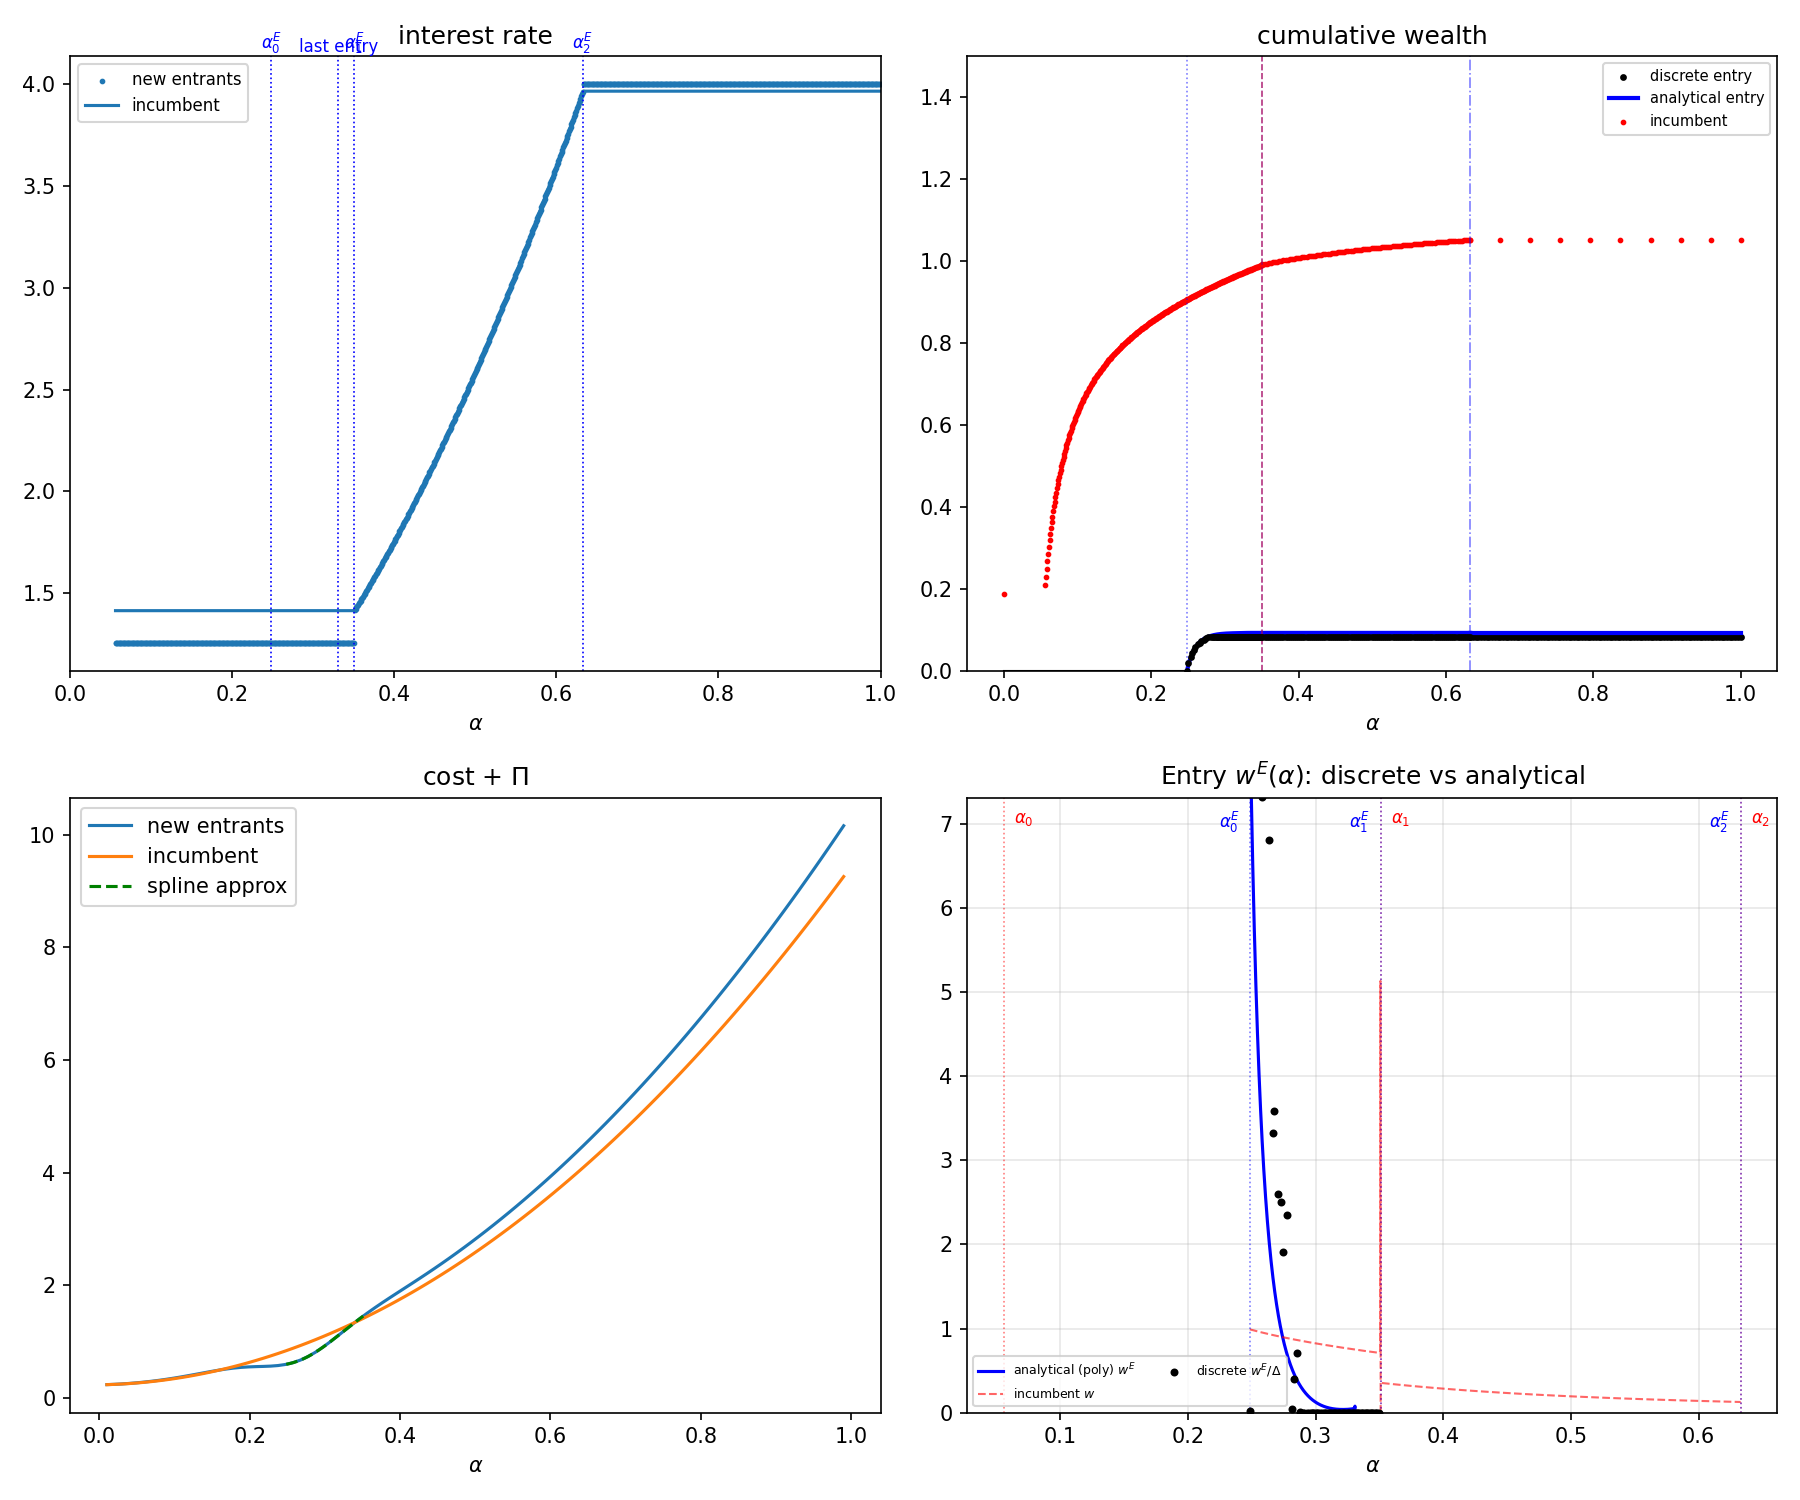
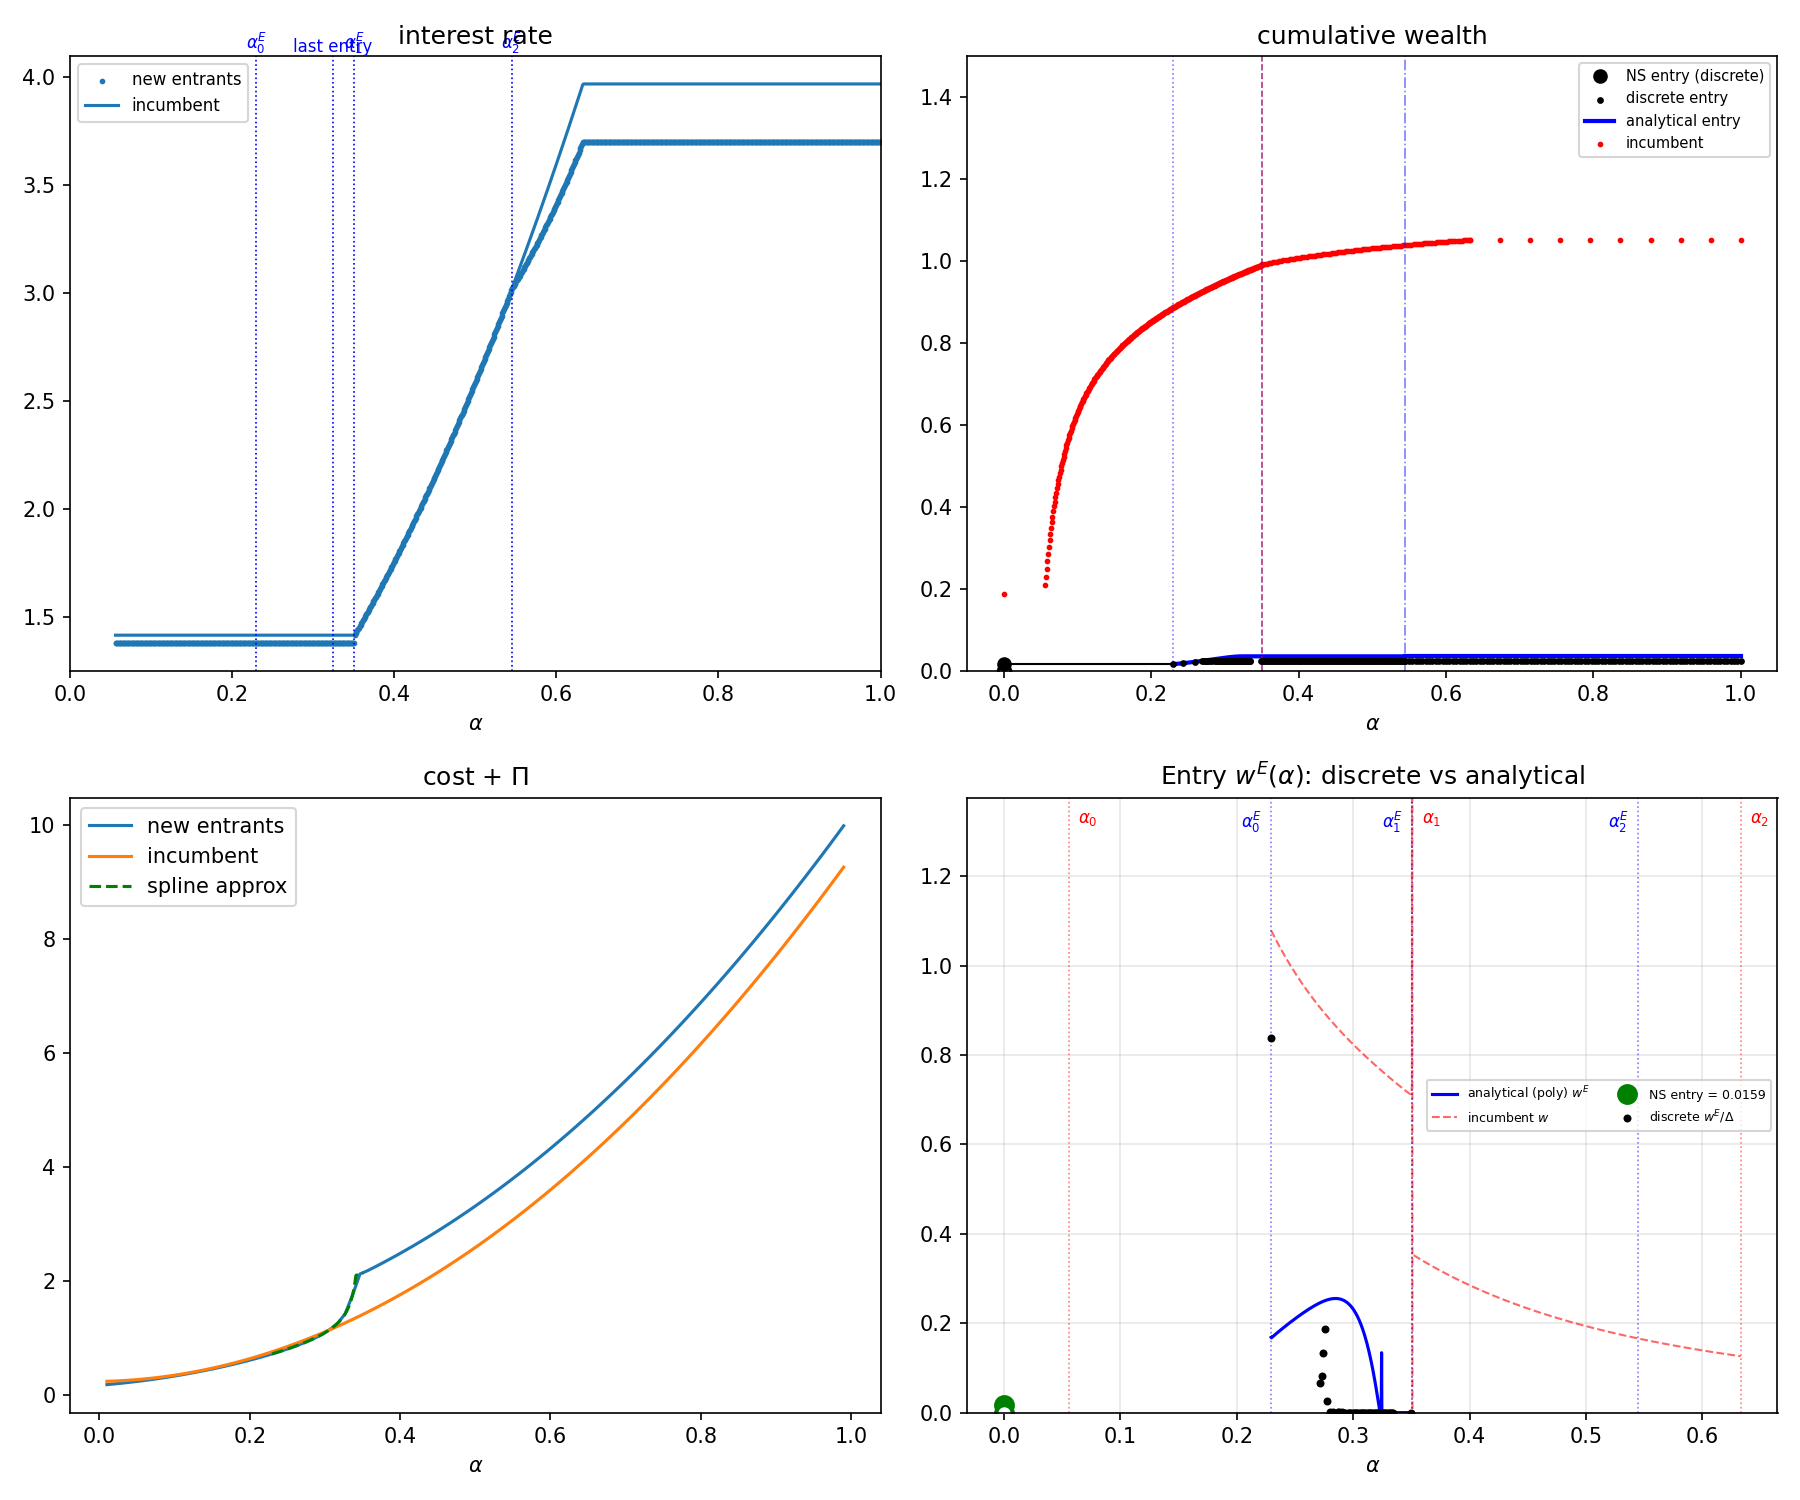
Add cost_lift_with_addon; switch FIG9_OB_limited to it (SP-free)
Replaces the selection_preserving + legacy_addons specification for fig9a
with an explicit, SP-free construction:

  For alpha <= spike:  C^E(alpha) = C(alpha) + c_lift*alpha*(alpha_bar-alpha)
                                            + hyperbolic_addon(alpha)
  For alpha >  spike:  C^E(alpha) = C(alpha) + 0.1*addon_cap
                                            + c_lift*spike*(alpha_bar-spike)
                                              (constant for continuity)

c_lift=4 mirrors the legacy kappa1=-4 distortion magnitude.  K^E(0) = Pi^E
holds by construction since C(0)=lift(0)=addon(0)=0.

Equilibrium matches the previous SP+addons setup to within 1%:
  - alpha0E:  0.227 -> 0.230
  - alpha2E:  0.546 -> 0.545
  - IIb:      0.087 -> 0.088
  - r_NS drop: 0.261 -> 0.268
  - monotonicity margin: +0.0011 (preserved)

Benefits over the SP form: no gamma-dependence, no PCHIP smoothing of a
noisy base, much smaller code path.

diff --git a/mainE_python.py b/mainE_python.py
@@ -90,31 +90,26 @@ PARAM_CONFIGS = {
     },
     'FIG9_OB_limited': {
         'description': 'Figure 9a / fig:OB left - Open Banking, limited adoption (cost advantage at low alpha).',
-        # Legacy SP + add-ons cost form (selection_preserving + legacy_addons).
-        # K^E = γ(α)·(1 + D⁻¹((1/κ)·D((Π+1+C)/γ - 1))) - 1 - Π^E
-        #         + κ₁·α·(α-α̅)                                  (distortion)
-        #         + hyperbolic left addon (capped at 0.1·addon_cap, kink at α=α₁)
-        #         + parallel right piece (K^E rises in lockstep with K_inc for α>α₁)
-        #
-        # Pi/Pi^E chosen so that Pi^E = K^E(0) (i.e. zero entrant rents at α=0
-        # in the limit of the marginal lender breaking even).  K^E(0) for the SP
-        # form depends only on Pi and γ(0), not on Pi^E, so this is a one-shot
-        # set rather than a fixed point.  Pi=0.235 lifts the rate scale up by
-        # ~16% but preserves α₀, α₁, α₀^E and Region IIb width (0.086) almost
-        # exactly; r_NS drop shrinks from 0.36 to 0.26 (still clearly positive
-        # spillover).
+        # cost_lift_with_addon: explicit, SP-free construction of K^E.
+        #   For α ≤ spike:  C^E(α) = C(α) + c_lift·α·(α̅−α) + hyperbolic_addon(α)
+        #   For α > spike:  C^E(α) = C(α) + 0.1·addon_cap + c_lift·spike·(α̅−spike)
+        # K^E(0) = Π^E by construction (C(0)=0, lift(0)=0, addon(0)=0).
+        # c_lift=4 mirrors the legacy κ₁=−4 distortion magnitude.
+        # The previous form was selection_preserving + legacy_addons with PCHIP
+        # smoothing of a γ-dependent grid; this gives within-1% the same
+        # equilibrium (α₀^E≈0.23, IIb≈0.088, r_NS drop≈0.27) with simpler code.
         'Pi': 0.235,
         'beta': 0.5,
         'BperG': 1.0,
         'cfun': lambda alpha: 9.0 * alpha**2 + 0.2 * alpha,
         'has_entry': True,
         'PiE': 0.168,
-        'cfunE_kind': 'selection_preserving',
-        'cfunE_params': {'kappa': 1.1, 'use_smoothing': True,
-                         'use_legacy_addons': True, 'kappa1_distortion': -4.0,
-                         # Lowered from legacy 100 → kink slides from α≈0.336 to
-                         # α≈0.269 and K^E plateau drops from +10 to +1.
-                         'addon_cap': 10.0},
+        'cfunE_kind': 'cost_lift_with_addon',
+        'cfunE_params': {
+            'c_lift': 4.0,
+            'addon_cap': 10.0,
+            # spike_alpha defaults to α₁ from the incumbent solve
+        },
     },
     'FIG9_OB_broad': {
         'description': 'Figure 9b / fig:OB right - Open Banking, broad adoption (cost advantage band at intermediate alpha).',
@@ -279,7 +274,8 @@ def _resolve_cfunE_mode(cfg):
 
     if kind in ('cost_reduction_top', 'cost_reduction_low',
                 'cost_offset_smooth', 'cost_dip_gaussian',
-                'cost_dip_multiplicative', 'cost_exp_decay'):
+                'cost_dip_multiplicative', 'cost_exp_decay',
+                'cost_lift_with_addon'):
         # New kinds — handled directly in cfunE, no legacy mode.
         return kind, params
 
@@ -691,6 +687,34 @@ def cfunE(alpha):
         bump = np.exp(-(alpha_arr - alpha_center)**2 / (2.0 * sigma**2))
         multiplier = 1.0 + delta_baseline - delta_dip * bump
         ca = c_inc * multiplier
+        return _scalar(ca[0]) if len(alpha_arr) == 1 else ca
+
+    # --- cost_lift_with_addon: explicit construction of fig9a-style K^E without SP.
+    # For α ≤ spike_alpha:  C^E(α) = C(α) + c_lift·α·(α̅−α) + hyperbolic_addon(α)
+    # For α > spike_alpha:  C^E(α) = C(α) + 0.1·addon_cap + c_lift·spike·(α̅−spike)
+    #                                                       └── const for continuity at α=spike
+    # The hyperbolic addon and right plateau mirror the legacy SP+addons setup.
+    # The mid-pool lift c_lift·α·(α̅−α) replaces the κ₁·α·(α−α̅) distortion
+    # (note sign: lift is positive for α < α̅, mirroring κ₁ < 0).
+    # α̅ = (α₀ + α₁)/2 is read from the incumbent solve.
+    # K^E(0) = Π^E (since C(0)=0, lift(0)=0, addon(0)=0).
+    if mode == 'cost_lift_with_addon':
+        alpha_arr = np.atleast_1d(np.asarray(alpha, dtype=float))
+        spike = params.get('spike_alpha', g.alpha1)
+        c_lift = params.get('c_lift', 4.0)
+        cap = params.get('addon_cap', 10.0)
+        alpha_bar = (g.alpha0 + g.alpha1) / 2.0
+        plateau_const = 0.1 * cap + c_lift * spike * (alpha_bar - spike)
+
+        c_inc = np.array([_scalar(cfun(a)) for a in alpha_arr])
+        ca = np.zeros(len(alpha_arr))
+        for i, a in enumerate(alpha_arr):
+            if a > spike:
+                ca[i] = c_inc[i] + plateau_const
+            else:
+                lift = c_lift * a * (alpha_bar - a)
+                addon = 0.1 * min(0.1 * (1.0 / max(spike - a, 1e-6) - 1.0 / spike), cap)
+                ca[i] = c_inc[i] + lift + addon
         return _scalar(ca[0]) if len(alpha_arr) == 1 else ca
 
     # --- polynomial closed form ---
